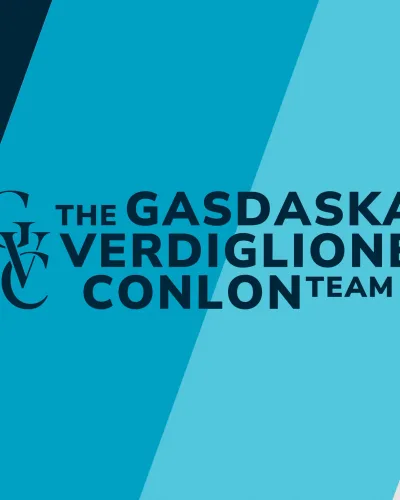
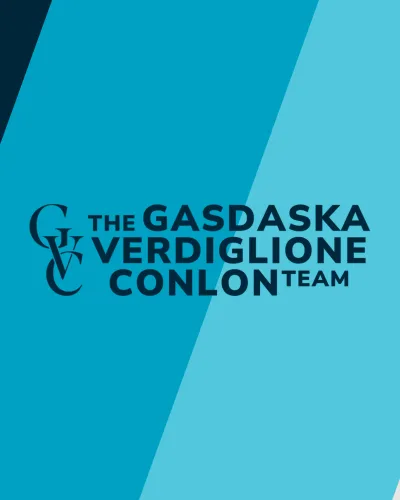
Show the full team name on the GVC Brand Motion card and project page (#19)
* Remake GVC Brand Motion cover so the full team name shows

The old cover upscaled the lockup about 1.6x and cropped the monogram and
both ends of the name. The new one redraws the stripes at the same angle and
colours and places the full lockup, extracted from kit/team-colours.webp, at
86% of the card width. Same size (1220x1525) and file weight (~37KB).

* Use the GVC cover as its project hero so the team name isn't cropped there either

The detail hero is 4:5, so the 16:9 Team Colours still was cut to its middle
45%, losing the monogram and both ends of the name at every width.

---------

Changed region(s): [[0.0, 0.36, 1.0, 0.63], [0.99, 0.96, 1.0, 0.99]]

diff --git a/src/lib/seed.ts b/src/lib/seed.ts
@@ -392,7 +392,8 @@ export const SEED_PROJECTS: Project[] = [
     role: 'Motion design',
     year: 2026,
     summary: 'A set of twelve looping brand animations for the Gasdaska Verdiglione Conlon Team at Douglas Elliman, made in October 2026 and delivered in both landscape and portrait. They run from simple pattern loops (Panels, Quarter Turns, Tide, Reeded Glass) to animated logo and monogram pieces and illustrated scenes (Facade, Places and Capabilities, Light Trails), all in the team’s navy and sky-blue palette. The stills here are single frames from the landscape versions.',
-    heroImage: asset('/projects/gvc-brand-motion/kit/team-colours.webp'),
+    // The 4:5 cover rather than a 16:9 still: the hero is 4:5 too, so a landscape frame would crop the team name.
+    heroImage: asset('/websites/covers/gvc-brand-motion.webp'),
     cover: asset('/websites/covers/gvc-brand-motion.webp'),
     kit: {
       credits: [
